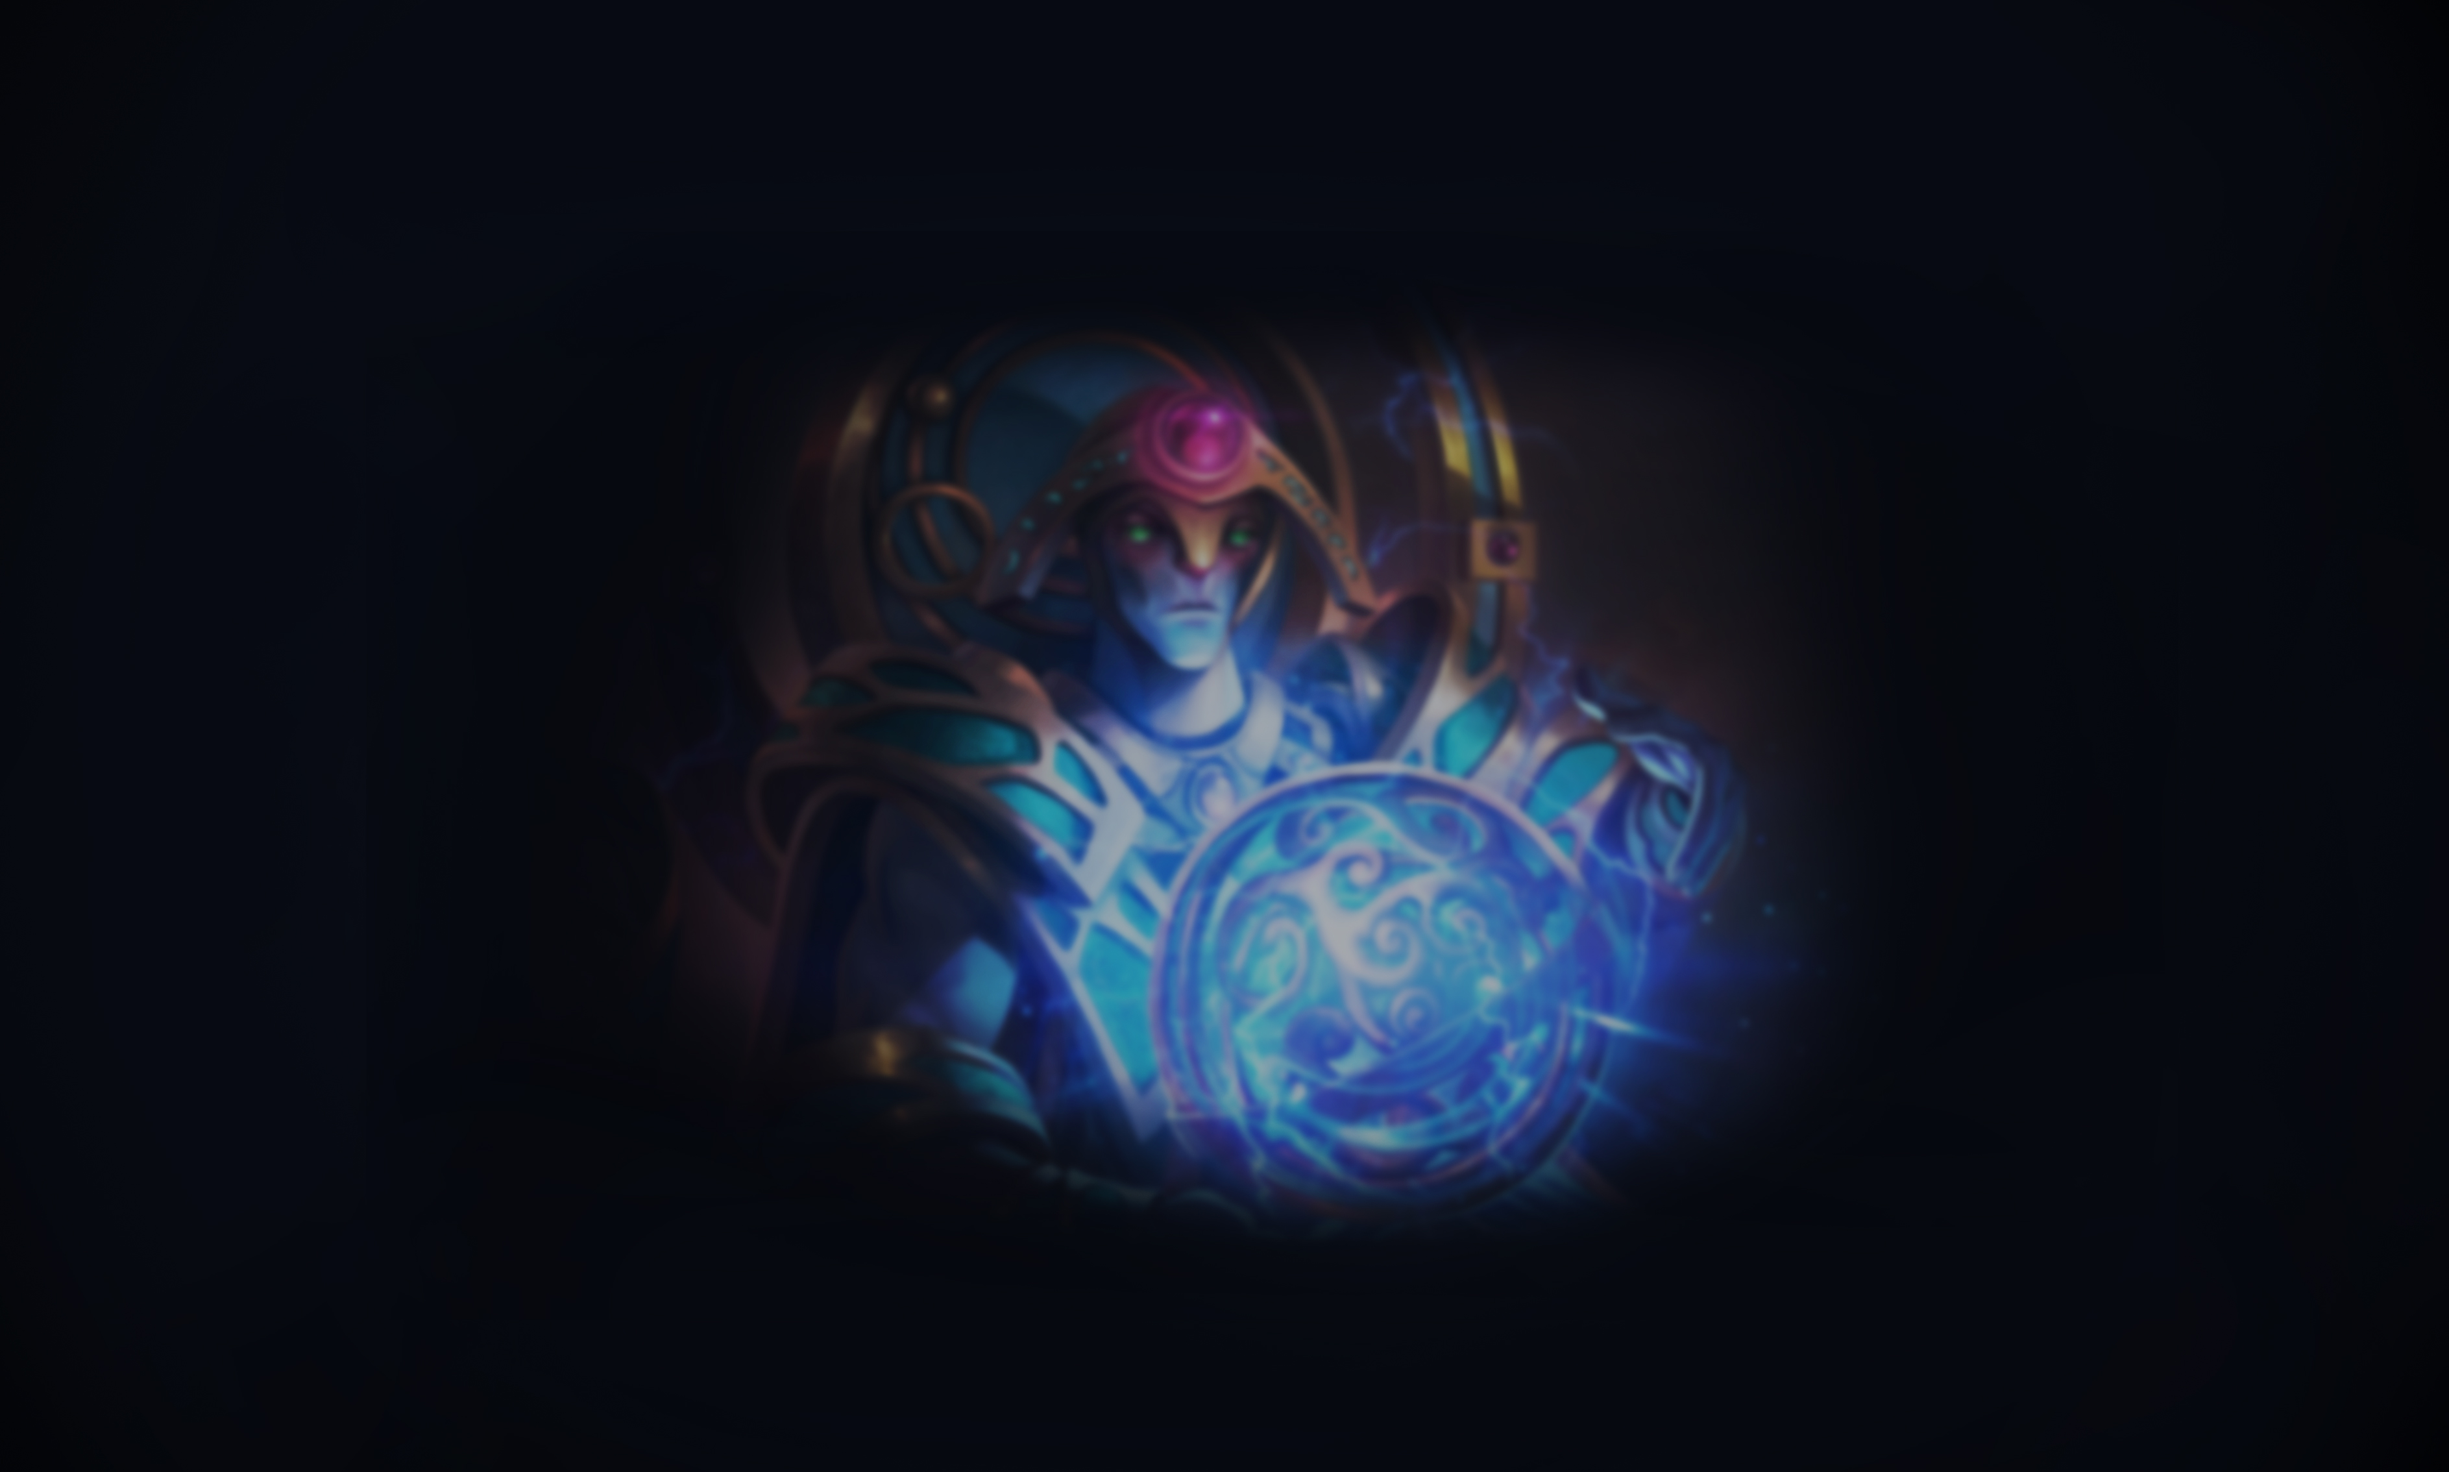
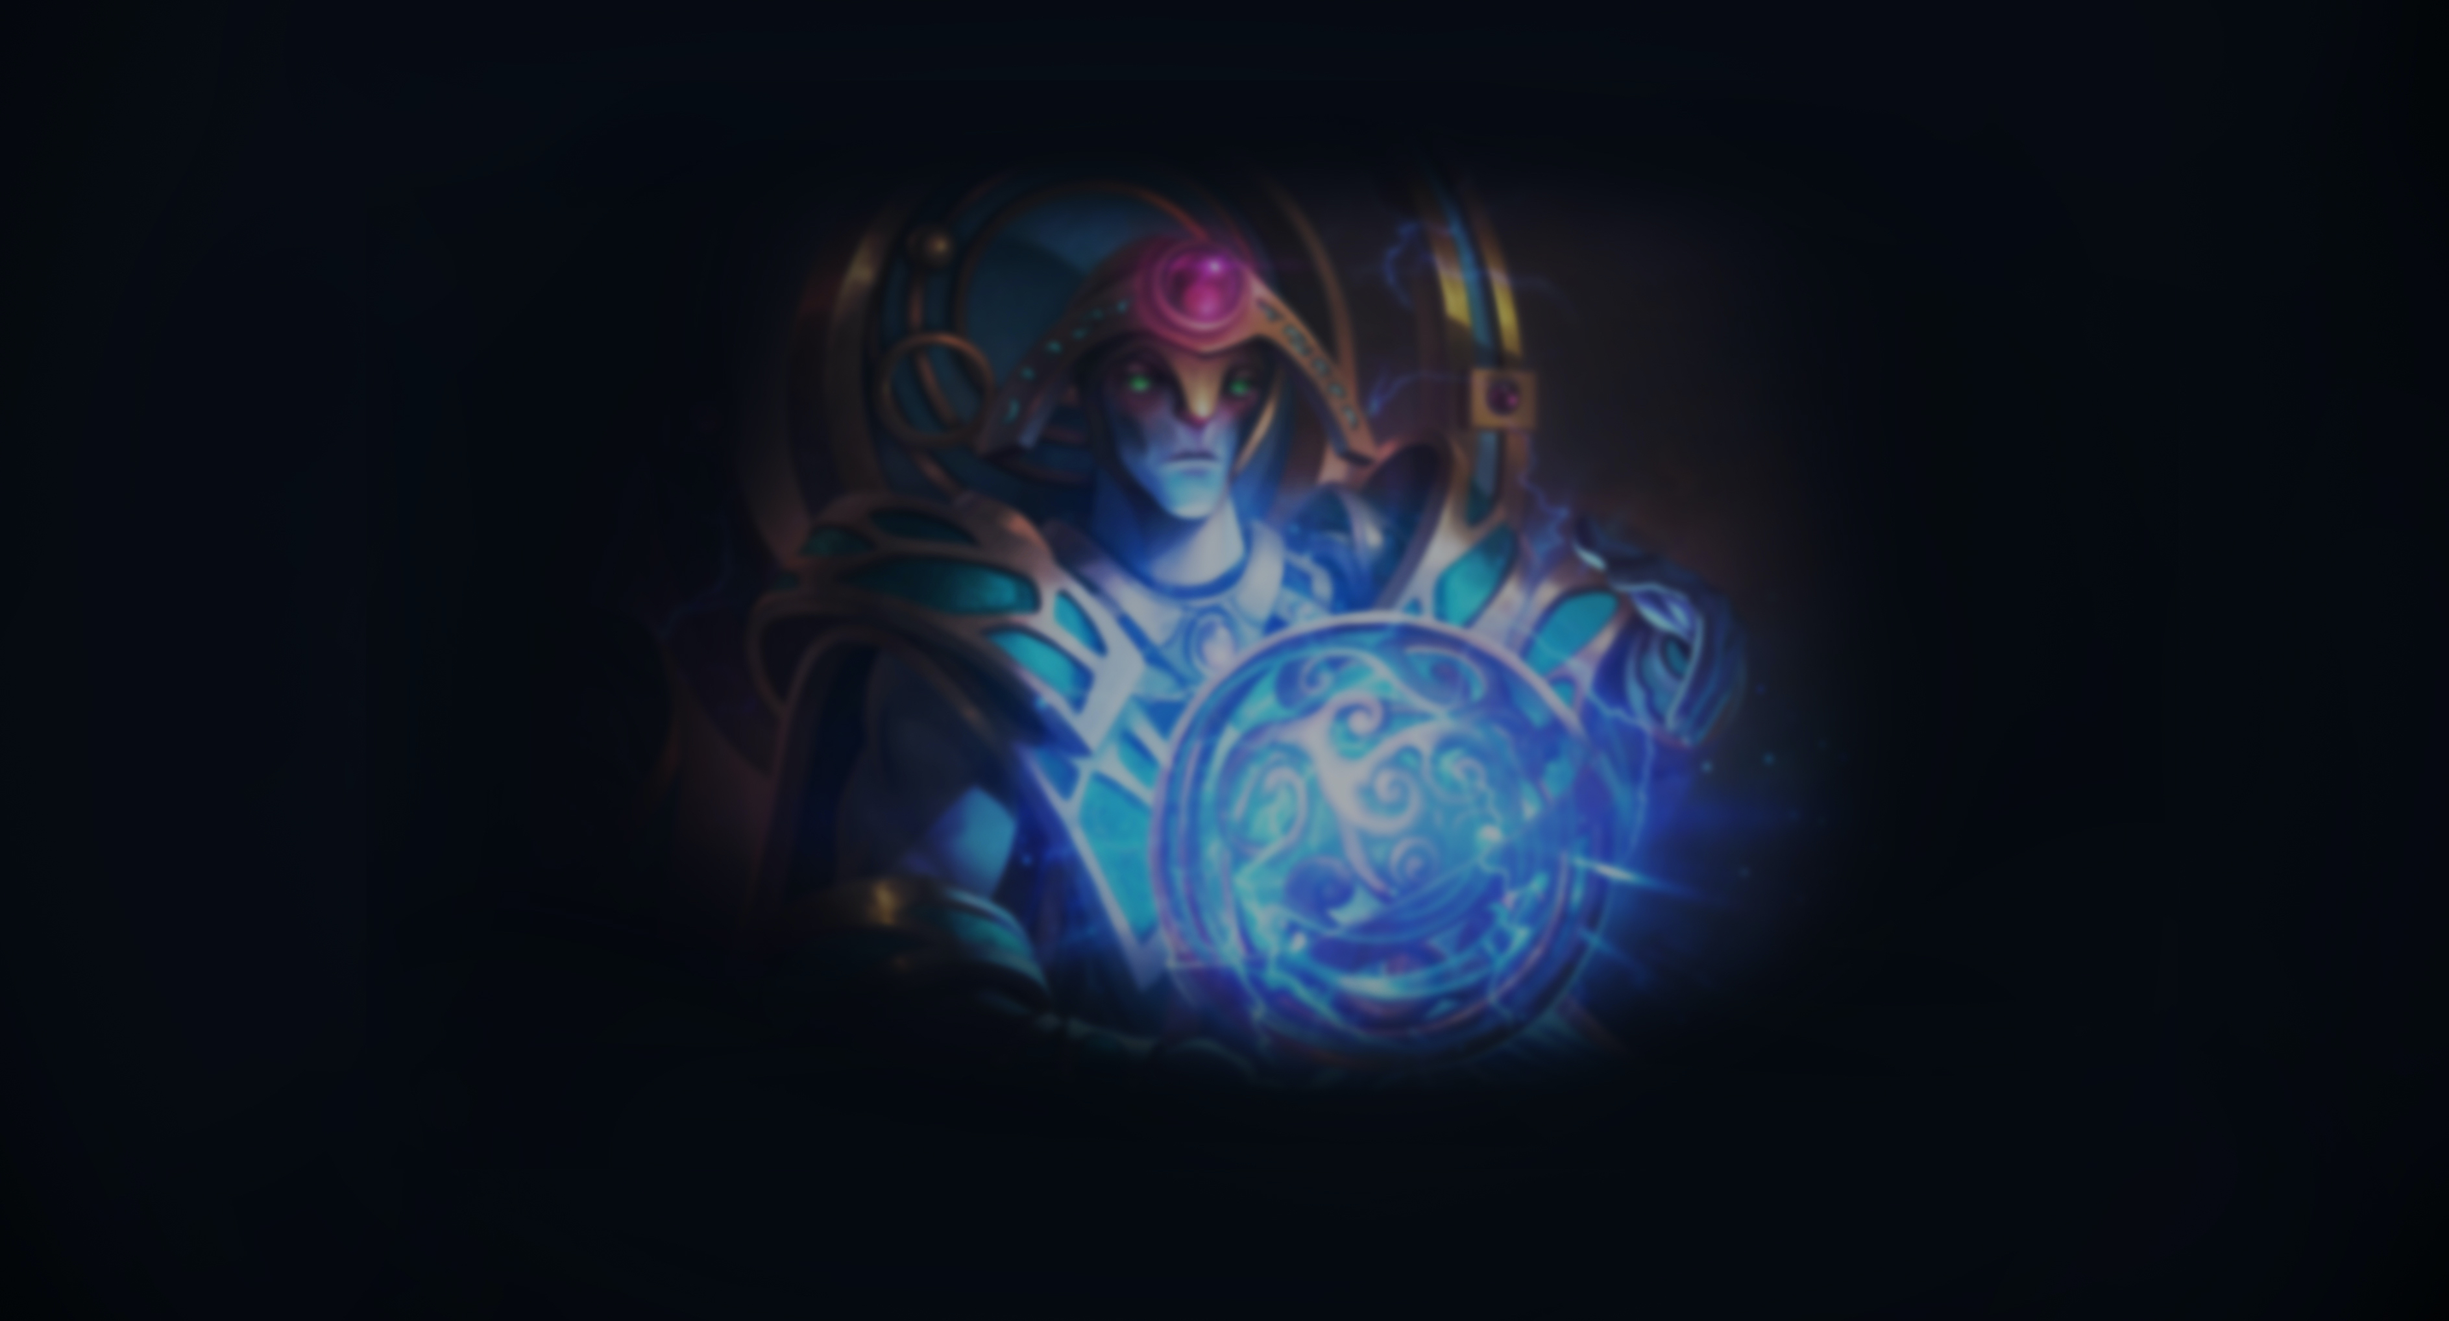
Style league details and add link to rules and regulations
Crop background image to fit design and add background colour when background image is too short
!important to league yellow for link::hover to have that colour

Changed region(s): [[0.31, 0.1547, 0.744, 0.8355], [0.31, 0.3713, 0.341, 0.4332], [0.31, 0.4641, 0.341, 0.4951]]

diff --git a/app/webpacker/src/stylesheets/league.scss b/app/webpacker/src/stylesheets/league.scss
@@ -11,6 +11,7 @@
   background-size: 100%;
   background-repeat: no-repeat;
   background-image: url("../src/images/league-overview-p2-bg.jpg");
+  background-color: #04090F;
   border-bottom: 1px solid #fddc56;
 }
 
@@ -111,7 +112,7 @@
 }
 
 .league-yellow {
-  color: #fff6bd;
+  color: #fff6bd !important;
 }
 
 #sequence-of-event-bg .col {
